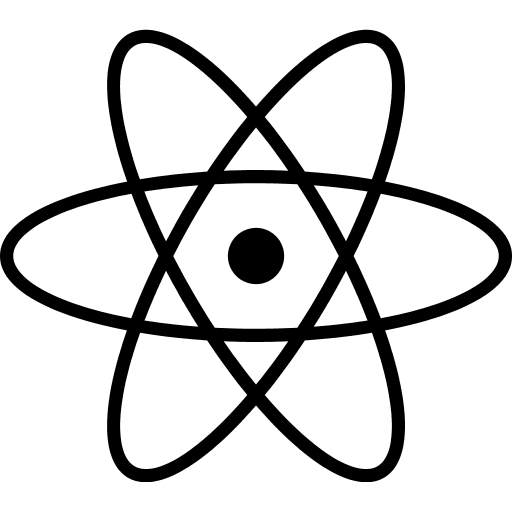
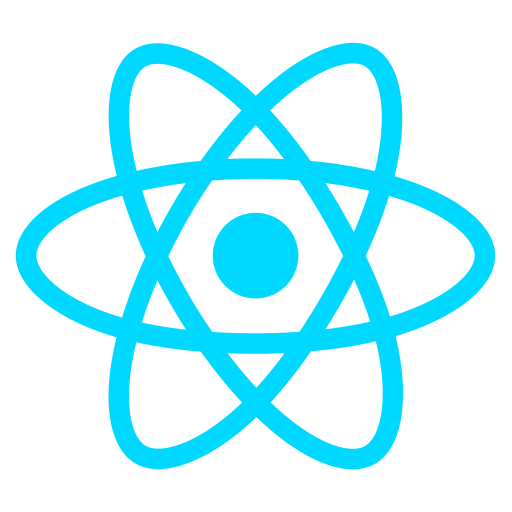
Update products

Changed region(s): [[0.0, 0.0312, 1.0, 0.9688], [0.4062, 0.4062, 0.5938, 0.5938]]

diff --git a/api/products.ts b/api/products.ts
@@ -9,25 +9,25 @@ export type Product = {
   description: string;
   img: string;
   url: string;
-  type: 'blog' | 'handbook' | 'software' | 'writing',
+  type: 'blog' | 'handbook' | 'software' | 'writing' | 'coaching',
   status: Status
 };
 
 export const getProducts = (): Product[] => [
   {
-    name: "Newsletter",
-    type: "writing",
+    name: "Mentoring",
+    type: "coaching",
     description: "",
-    img: "newsletter.png",
-    url: "",
+    img: "code-mentor.png",
+    url: "/mentoring",
     status: Status.DONE,
   },
   {
     name: "Scaling React Application",
     type: "handbook",
     description: "",
-    img: "react.png",
-    url: "",
+    img: "react.svg",
+    url: "/scaling-react-app",
     status: Status.COMING_SOON,
   },
 ];

diff --git a/components/ProductCard.tsx b/components/ProductCard.tsx
@@ -9,7 +9,7 @@ type ProductCardProps = {
 export const ProductCard = ({ product }: ProductCardProps) => (
   <a
     href={product.url}
-    className="shadow shadow-slate-300 flex flex-col justify-between border border-solid border-slate-300 bg-slate-200 mx-2 p-4 rounded-sm w-5/6 sm:w-1/5 text-center hover:bg-slate-100 relative hover:-translate-y-1 transition pt-4 mb-2"
+    className="shadow shadow-slate-300 flex flex-col justify-between border border-solid border-md border-slate-300 bg-zinc-800 mx-2 p-4 rounded-sm w-5/6 sm:w-1/5 text-center hover:bg-zinc-600 relative hover:-translate-y-1 transition pt-4 mb-2"
   >
     <div>
       <Image
